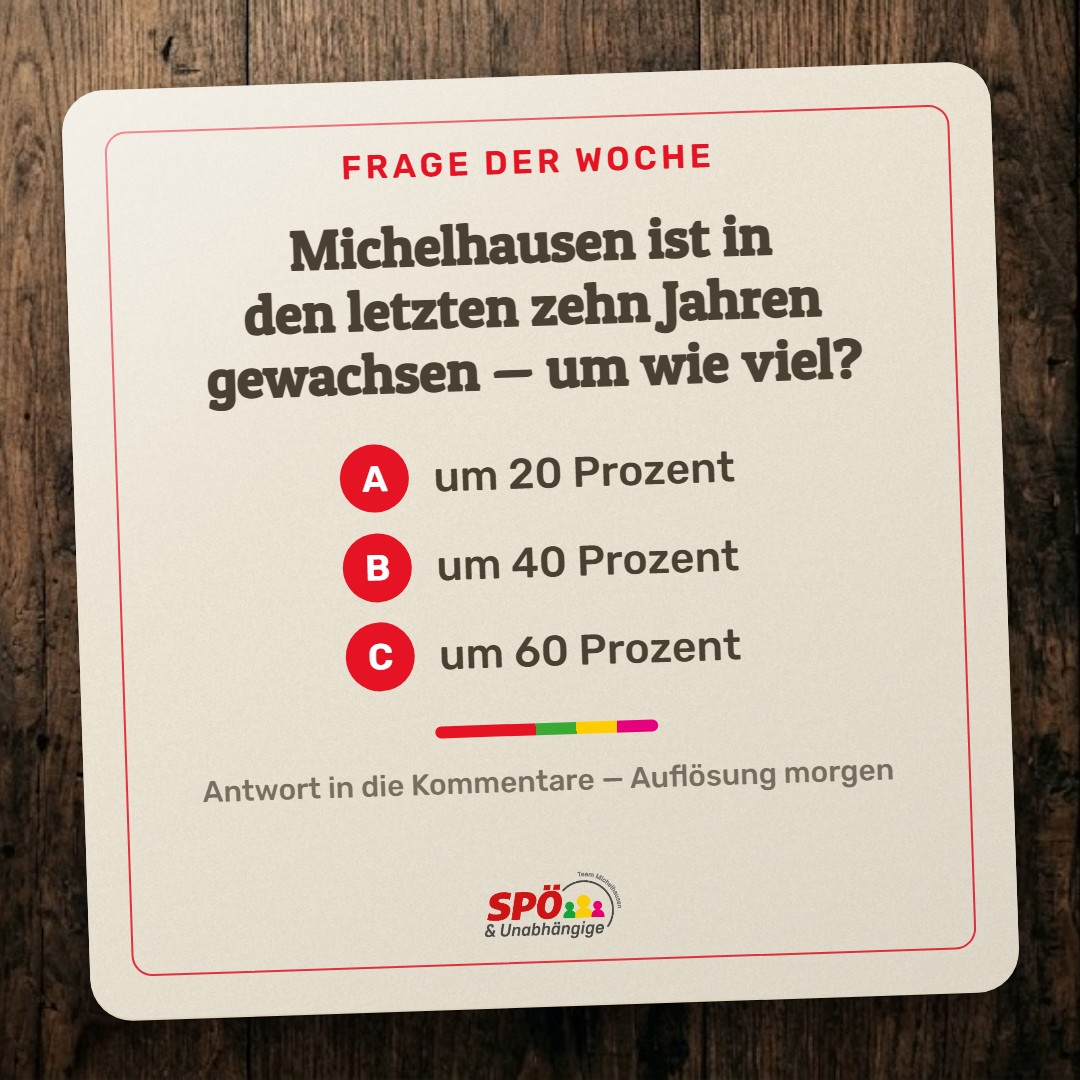
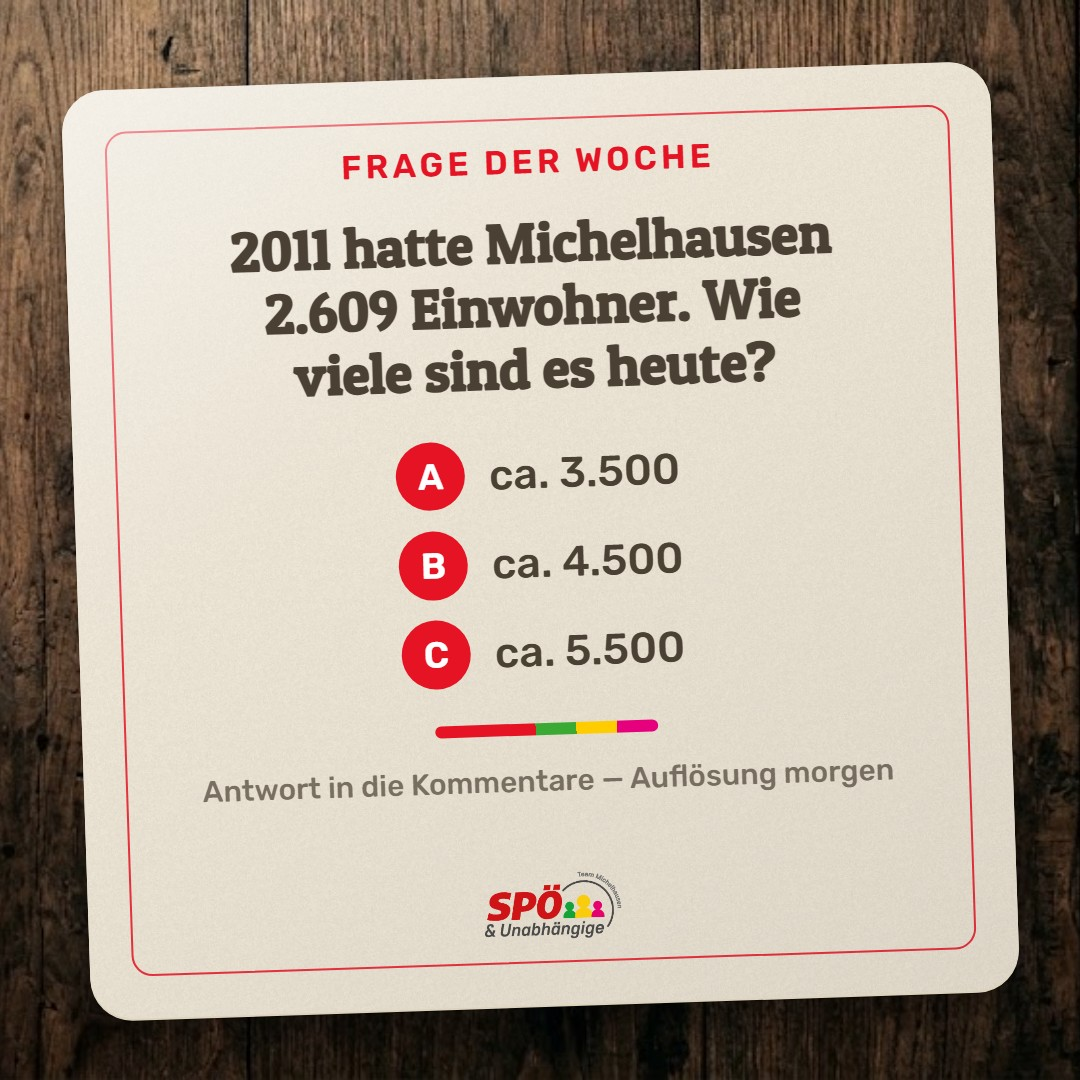
Frage der Woche #1: Zuzugsfrage (Einwohnerzahl Michelhausen)

Changed region(s): [[0.1833, 0.1833, 0.7944, 0.3972], [0.3056, 0.3972, 0.7028, 0.6417]]

diff --git a/tools/frage.html b/tools/frage.html
@@ -98,11 +98,11 @@
       <div class="keyline"></div>
       <div class="content">
         <p class="kicker" id="kicker">Frage der Woche</p>
-        <h1 class="q" id="q">Michelhausen ist in den letzten zehn Jahren gewachsen — um wie viel?</h1>
+        <h1 class="q" id="q">2011 hatte Michelhausen 2.609 Einwohner. Wie viele sind es heute?</h1>
         <div class="opts" id="opts">
-          <div class="opt"><b>A</b><span>um 20 Prozent</span></div>
-          <div class="opt"><b>B</b><span>um 40 Prozent</span></div>
-          <div class="opt"><b>C</b><span>um 60 Prozent</span></div>
+          <div class="opt"><b>A</b><span>ca. 3.500</span></div>
+          <div class="opt"><b>B</b><span>ca. 4.500</span></div>
+          <div class="opt"><b>C</b><span>ca. 5.500</span></div>
         </div>
         <div class="flagbar" id="flagbar"></div>
         <p class="foot" id="foot">Antwort in die Kommentare — Auflösung morgen</p>
